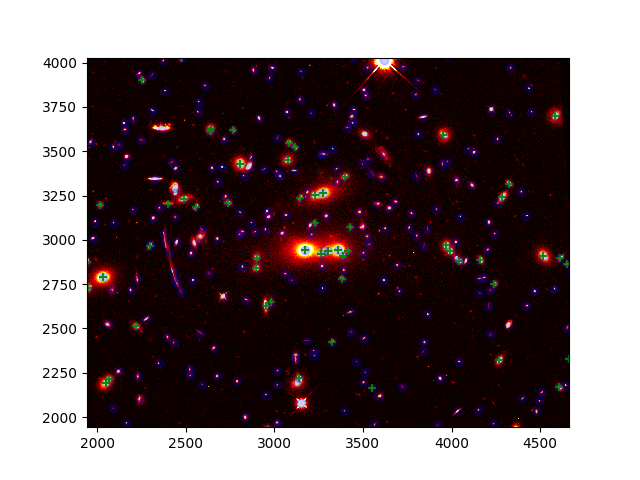
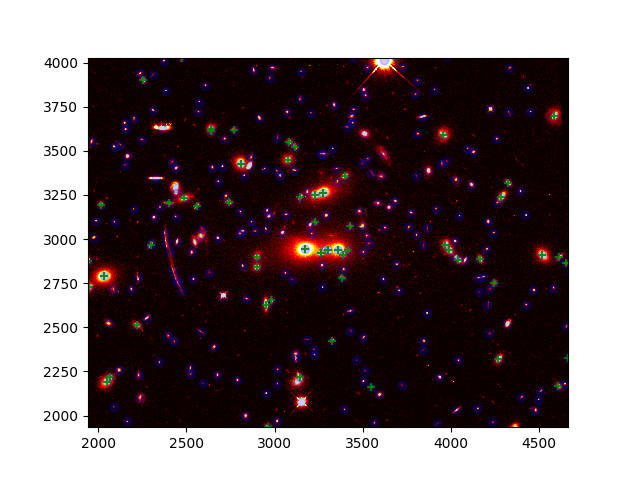
Implemented model where the einstein radius is dependent on the flux: b_sis = slope * flux ** 8 + intercept. Ignoring star at (2070.2122, 1812.9967) that was picked up as a cluster member.

diff --git a/lensing/multiple_sis_model.py b/lensing/multiple_sis_model.py
@@ -31,7 +31,7 @@ def run_mcmc(img_xobs, img_yobs, fig_dir, d, lenses, pars, cov, nwalkers=100, ns
         for name in names:
             x_src[name], y_src[name] = pylens.getDeflections(lenses, [img_xobs[name], img_yobs[name]], d[name])
             lnlike_dict[name] = -0.5 * (x_src[name].var() + y_src[name].var())
-        print(sum(lnlike_dict.values()), [lens.b for lens in lenses])
+        print(sum(lnlike_dict.values())) #, [lens.b for lens in lenses])
         return sum(lnlike_dict.values())
 
     # Run MCMC
@@ -54,7 +54,7 @@ def run_mcmc(img_xobs, img_yobs, fig_dir, d, lenses, pars, cov, nwalkers=100, ns
     samples = samples[burn:].reshape(((nsteps-burn) * nwalkers, len(pars)))
 
     # Plot parameter contours and mcmc chains
-    param_names = ['$b_{lens%d}$' % i for i in range(len(pars))]
+    param_names = [par.__name__ for par in pars]
     c = ChainConsumer()
     c.add_chain(samples, parameters=param_names)
     c.configure(summary=True, cloud=True)
@@ -162,35 +162,52 @@ def macs0451_multiple_sources():
     img_yobs['C'] = np.array([3358.972702, 3367.9, 3059.195359, 3069.9])
     d['C'] = scale_einstein_radius(z_lens=z_lens, z_src=2.0)
 
-    mass_pos = [(2070.2122, 1812.9967), (2965.5288, 1933.9563), (2049.9021, 2192.387), (3141.9883, 2217.7527), (4607.7075, 2167.5984), (3549.3555, 2162.8872), (2068.0742, 2216.7585), (4268.5576, 2319.8298), (4663.2427, 2328.0593), (3323.5115, 2425.0659), (2221.5608, 2512.1736), (2950.5073, 2629.0552), (2981.6868, 2652.0073), (2033.7075, 2788.6877), (1949.4614, 2728.1226), (4241.4492, 2750.6653), (3361.4163, 2940.6357), (3173.2246, 2941.2471), (4516.8184, 2908.7585), (3382.9978, 2781.5076), (2898.4788, 2840.1252), (1942.7456, 2877.2471), (2899.8923, 2899.4895), (4041.6626, 2880.5015), (4162.7109, 2886.1875), (3989.6919, 2935.3879), (3303.6855, 2938.9148), (3968.1621, 2968.2993), (4613.0122, 2897.4099), (4649.1987, 2862.4167), (3261.9656, 2921.2605), (3386.9814, 2911.084), (3414.7791, 2936.4338), (2298.7419, 2965.8403), (3427.4221, 3072.7476), (3227.8262, 3095.5388), (3275.3184, 3263.1567), (4284.9653, 3240.2017), (3227.1746, 3250.7136), (2487.8906, 3230.6677), (2559.6587, 3186.9429), (2017.4875, 3195.2239), (2740.4167, 3208.8381), (3146.053, 3237.4194), (2401.4067, 3203.291), (2808.7485, 3427.9224), (4322.1392, 3317.6938), (3397.1904, 3356.5364), (3074.5276, 3448.4421), (3954.7253, 3590.8535), (3116.0625, 3523.1008), (2640.4075, 3624.4426), (3082.8025, 3548.231), (4583.7495, 3697.9534), (2768.9014, 3617.7961), (2639.042, 3615.2815), (2255.7852, 3900.9021), (2476.9795, 4028.5874)]
+    masses_pos = [(2965.5288, 1933.9563), (2049.9021, 2192.387), (3141.9883, 2217.7527), (4607.7075, 2167.5984), (3549.3555, 2162.8872), (2068.0742, 2216.7585), (4268.5576, 2319.8298), (4663.2427, 2328.0593), (3323.5115, 2425.0659), (2221.5608, 2512.1736), (2950.5073, 2629.0552), (2981.6868, 2652.0073), (2033.7075, 2788.6877), (1949.4614, 2728.1226), (4241.4492, 2750.6653), (3361.4163, 2940.6357), (3173.2246, 2941.2471), (4516.8184, 2908.7585), (3382.9978, 2781.5076), (2898.4788, 2840.1252), (1942.7456, 2877.2471), (2899.8923, 2899.4895), (4041.6626, 2880.5015), (4162.7109, 2886.1875), (3989.6919, 2935.3879), (3303.6855, 2938.9148), (3968.1621, 2968.2993), (4613.0122, 2897.4099), (4649.1987, 2862.4167), (3261.9656, 2921.2605), (3386.9814, 2911.084), (3414.7791, 2936.4338), (2298.7419, 2965.8403), (3427.4221, 3072.7476), (3227.8262, 3095.5388), (3275.3184, 3263.1567), (4284.9653, 3240.2017), (3227.1746, 3250.7136), (2487.8906, 3230.6677), (2559.6587, 3186.9429), (2017.4875, 3195.2239), (2740.4167, 3208.8381), (3146.053, 3237.4194), (2401.4067, 3203.291), (2808.7485, 3427.9224), (4322.1392, 3317.6938), (3397.1904, 3356.5364), (3074.5276, 3448.4421), (3954.7253, 3590.8535), (3116.0625, 3523.1008), (2640.4075, 3624.4426), (3082.8025, 3548.231), (4583.7495, 3697.9534), (2768.9014, 3617.7961), (2639.042, 3615.2815), (2255.7852, 3900.9021), (2476.9795, 4028.5874)]
+    masses_flux = np.array([378.1141, 1527.1989999999998, 773.9109, 294.5334, 275.1775, 346.9561, 780.823, 201.5256, 244.387, 391.2144, 954.7488, 273.3743, 2777.741, 636.8357, 317.5356, 2693.8559999999998, 3436.873, 1680.48, 219.1088, 591.2639, 624.871, 590.7428, 695.0563, 485.1097, 901.0128, 947.5237, 939.0687, 290.4246, 226.5177, 717.8644, 325.5481, 285.941, 266.1354, 232.6961, 257.5104, 1943.4389999999999, 957.1483, 1277.3110000000001, 821.7504, 362.3544, 343.2694, 381.5304, 260.1786, 306.7749, 1675.8770000000002, 442.8735, 549.5866, 910.3147, 979.7011, 389.7068, 707.3599, 433.32599999999996, 1193.312, 204.4583, 218.7119, 451.3262, 333.3452])
+    masses_flux = masses_flux/200.
+    print(masses_flux)
 
     lenses = []
     pars = []
     cov = []
-    for lx, ly in mass_pos:
-        LX = pymc.Uniform('lx', 1000., 5000., value=lx)
-        LY = pymc.Uniform('ly', 1000., 5000., value=ly)
-        LB = pymc.Uniform('lb', 10., 2000., value=1.50779124e+03)
-        lens = MassModels.SIS('', {'x': LX, 'y': LY, 'b': LB})
-        lenses += [lens]
-        pars += [LB]
-        cov += [400.]
+    flux_dependent_b = False
+    if flux_dependent_b:
+        for lx, ly in masses_pos:
+            LX = pymc.Uniform('lx', 1000., 5000., value=lx)
+            LY = pymc.Uniform('ly', 1000., 5000., value=ly)
+            LB = pymc.Uniform('lb', 10., 2000., value=150.)
+            lens = MassModels.SIS('', {'x': LX, 'y': LY, 'b': LB})
+            lenses += [lens]
+            pars += [LB]
+            cov += [50.]
+        cov = np.array(cov)
+    else:
+        # ------> b_sis = slope * flux ** 8 + intercept <-------- #
+        slope = pymc.Uniform('slope', -1000., 1000., value=1.)
+        intercept = pymc.Uniform('intercept', -1000., 1000., value=0.)
+        pars += [slope, intercept]
+        cov += [5., 5.]
+        cov = np.array(cov)
 
-    cov = np.array(cov)
+        for (lx, ly), flux in zip(masses_pos, masses_flux):
+            LX = pymc.Uniform('lx', 1000., 5000., value=lx)
+            LY = pymc.Uniform('ly', 1000., 5000., value=ly)
+            LB = slope * flux ** 8 + intercept
+            lens = MassModels.SIS('', {'x': LX, 'y': LY, 'b': LB})
+            lenses += [lens]
 
     nwalkers = 1000
-    nsteps = 1000
-    burn = 50
+    nsteps = 4000
+    burn = 200
 
     # best_lens = [  3.21895080e+03,   3.03726175e+03,   6.67192222e+02, 2.26586238e-01,   5.91357933e+00]
     # plot_source_and_pred_lens_positions(best_lens, img_xobs, img_yobs, d, fig_dir, threshold=0.01, plotimage=True, fits_file=fits_file)
 
-    run_mcmc(img_xobs, img_yobs, fig_dir, d, lenses, pars, cov, nwalkers=nwalkers, nsteps=nsteps, burn=burn, fits_file=fits_file, img_name=img_name, mass_pos=mass_pos)
+    run_mcmc(img_xobs, img_yobs, fig_dir, d, lenses, pars, cov, nwalkers=nwalkers, nsteps=nsteps, burn=burn, fits_file=fits_file, img_name=img_name, mass_pos=masses_pos)
 
 
 if __name__ == '__main__':
-    # lensed_quasar()
-    # macs0451()
     macs0451_multiple_sources()
 
     plt.show()
+

diff --git a/lensing/colour_colour_plot.py b/lensing/colour_colour_plot.py
@@ -25,10 +25,17 @@ def read_sextractor_output(filepath):
     return sex
 
 
-def get_positions(filepath, colour1=None, colour2=None, colour_limits=None, fits_file=None, fig_dir='.', addsavename=''):
+def get_positions(filepath, colour1=None, colour2=None, colour_limits=None, fits_file=None, fig_dir='.', addsavename='', returnflux=False, ignore_points=()):
     sex = read_sextractor_output(filepath)
+    ignore_indexes = []
+    for xignore, yignore in ignore_points:
+        ignore_indexes += list(np.where(sex.X_IMAGE == xignore)[0] & np.where(sex.Y_IMAGE == yignore)[0])
+    sex = sex.drop(ignore_indexes)
+
     x = sex.X_IMAGE
     y = sex.Y_IMAGE
+    flux = sex.FLUX_ISO
+
 
     plt.figure()
     if fits_file is not None:
@@ -40,13 +47,18 @@ def get_positions(filepath, colour1=None, colour2=None, colour_limits=None, fits
         mask = (colour1 > x1) & (colour1 < x2) & (colour2 > y1) & (colour2 < y2)
         x = x[mask]
         y = y[mask]
+        flux = flux[mask]
 
     plt.scatter(x, y, marker='+', c='g', alpha=0.9)
 
     plt.xlim(min(x), max(x))
-    plt.ylim(min(x), max(y))
+    plt.ylim(min(y), max(y))
     plt.savefig(os.path.join(fig_dir, 'cluster_members{}'.format(addsavename)))
-    return x, y
+
+    if returnflux:
+        return x, y, flux
+    else:
+        return x, y
 
 
 def get_colour(filepath1, filepath2):
@@ -70,21 +82,23 @@ def plot_colour_colour(colour1, colour2, name1='', name2='', fig_dir='.', colour
     fig, ax = plt.subplots(1)
     ax.scatter(colour1, colour2, marker='.', alpha=0.3)
 
-    if fpathpos is not None:
-        xpos, ypos = get_positions(fpathpos)
-        labels = np.core.defchararray.add(np.around(xpos).values.astype(str), np.around(ypos).values.astype(str))
-        for label, x, y in zip(labels, colour1, colour2):
-            plt.annotate(
-                label,
-                xy=(x, y), xytext=(-20, 20),
-                textcoords='offset points', ha='right', va='bottom',
-                bbox=dict(boxstyle='round,pad=0.5', fc='yellow', alpha=0.5),
-                arrowprops=dict(arrowstyle='->', connectionstyle='arc3,rad=0'))
-
     if colour_limits is not None:
         (x1, x2), (y1, y2) = colour_limits
         rect = patches.Rectangle(xy=(x1, y1), width=x2-x1, height=y2-y1, fill=False)
         ax.add_patch(rect)
+
+    if fpathpos is not None:
+        xpos, ypos = get_positions(fpathpos)
+        labels = np.core.defchararray.add(np.around(xpos).values.astype(str), np.around(ypos).values.astype(str))
+        for label, x, y in zip(labels, colour1, colour2):
+            print(label)
+            if True:  # x1 < x < x2 and y1 < y < y2:  # '2070.' in label:
+                ax.annotate(
+                    label,
+                    xy=(x, y), xytext=(-20, 20),
+                    textcoords='offset points', ha='right', va='bottom',
+                    bbox=dict(boxstyle='round,pad=0.5', fc='yellow', alpha=0.5),
+                    arrowprops=dict(arrowstyle='->', connectionstyle='arc3,rad=0'))
 
     ax.set(xlabel=name1, ylabel=name2)
     if axlims:
@@ -108,8 +122,9 @@ def main():
     axlims = [(-10, 800), (-0.1, 2)]
 
     plot_colour_colour(colour1, colour2, name1='814A', name2='606A - 814A', fig_dir=fig_dir, colour_limits=colour_limits, addsavename='_814', axlims=axlims)  #, fpathpos=fpath110)
-    x, y = get_positions(fpath110, colour1, colour2, colour_limits=colour_limits, fits_file=os.path.join(ROOT_DIR, 'data/MACS0451/MACS0451_F110W.fits'), fig_dir=fig_dir, addsavename='_814')
+    x, y, flux = get_positions(fpath110, colour1, colour2, colour_limits=colour_limits, fits_file=os.path.join(ROOT_DIR, 'data/MACS0451/MACS0451_F110W.fits'), fig_dir=fig_dir, addsavename='_814', returnflux=True, ignore_points=((2070.2122, 1812.9967),))
     print(list(zip(x, y)))
+    print(list(flux))
     plt.show()
 
 
